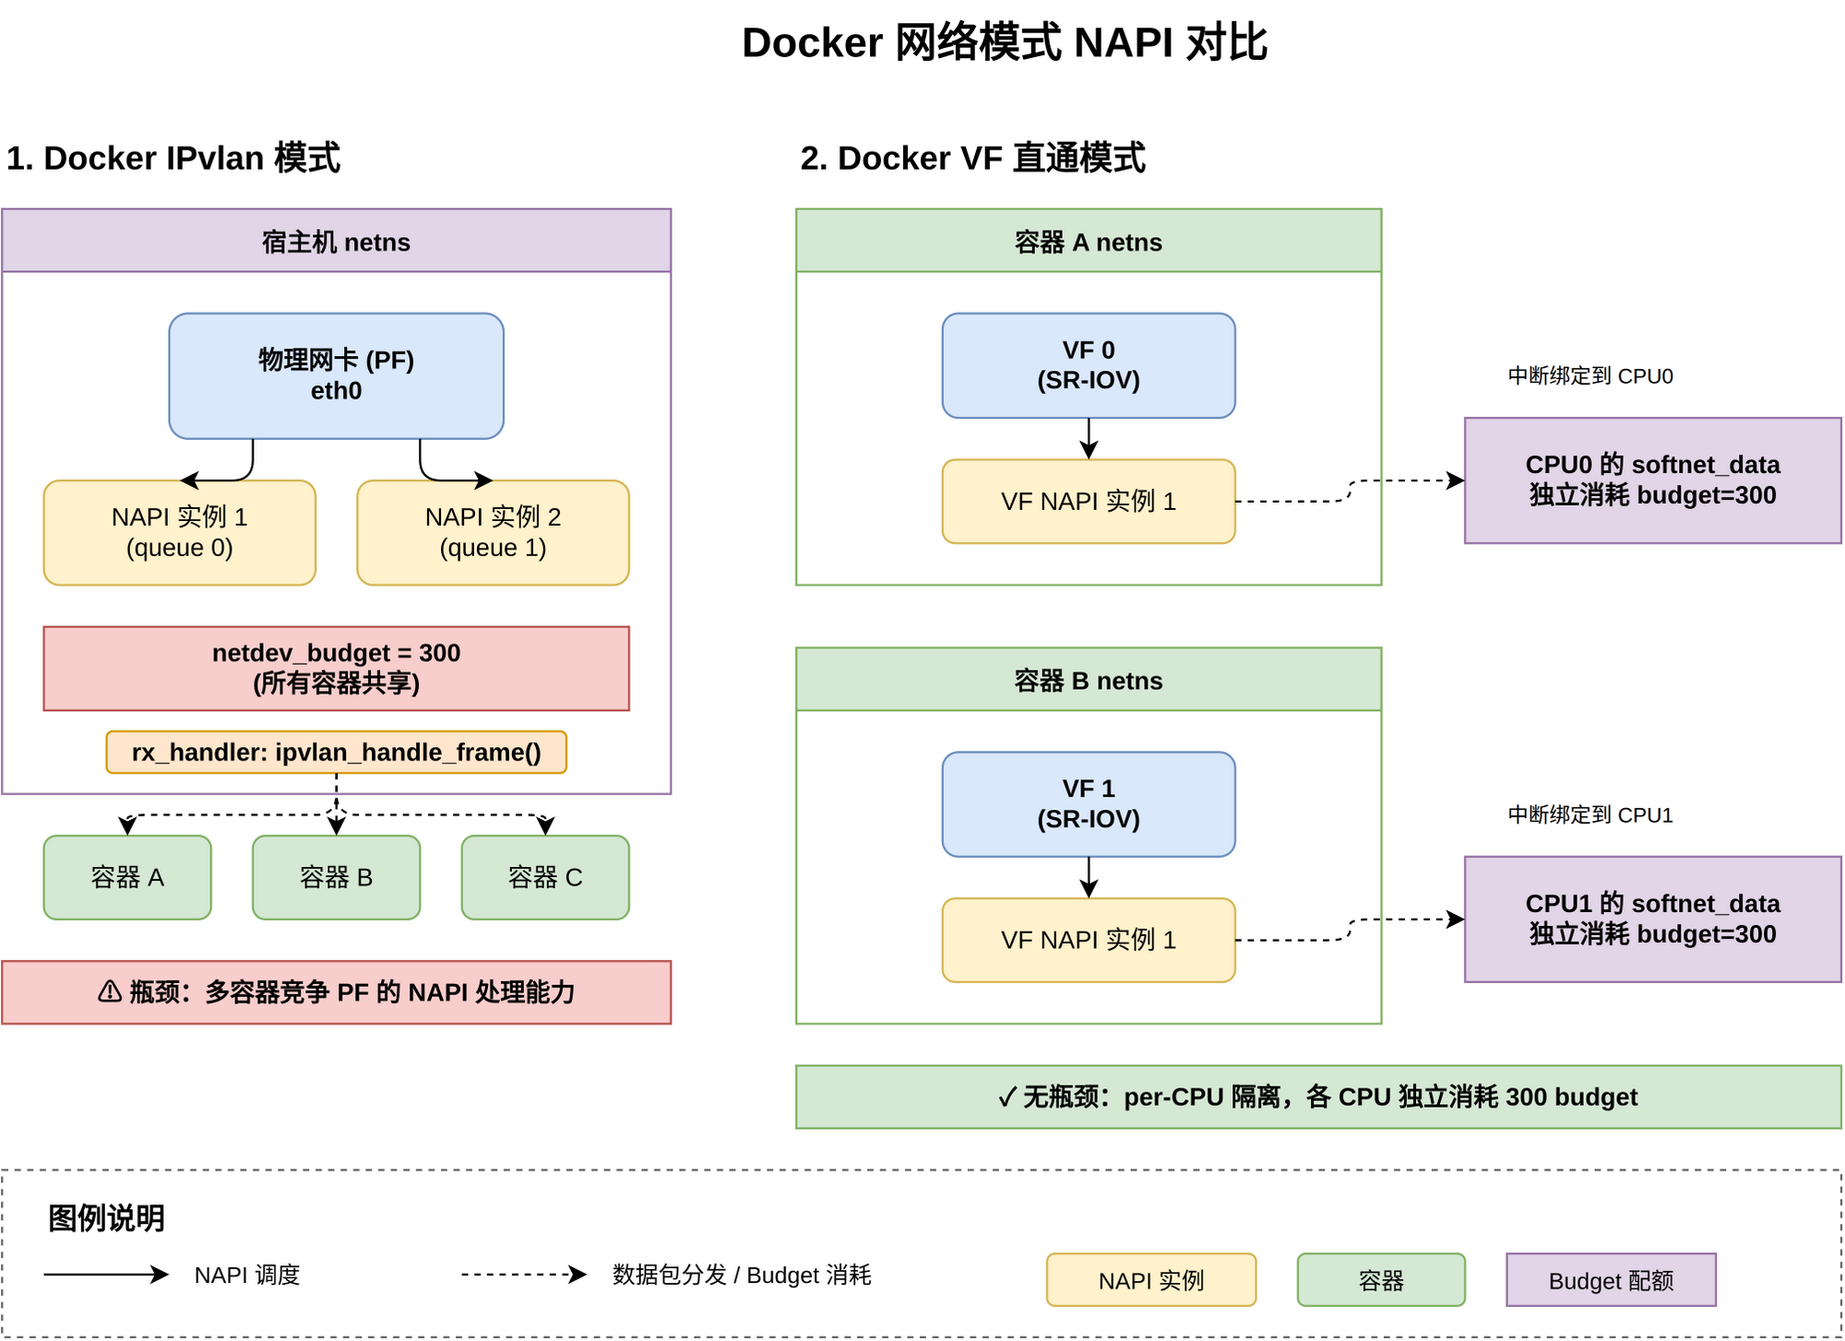
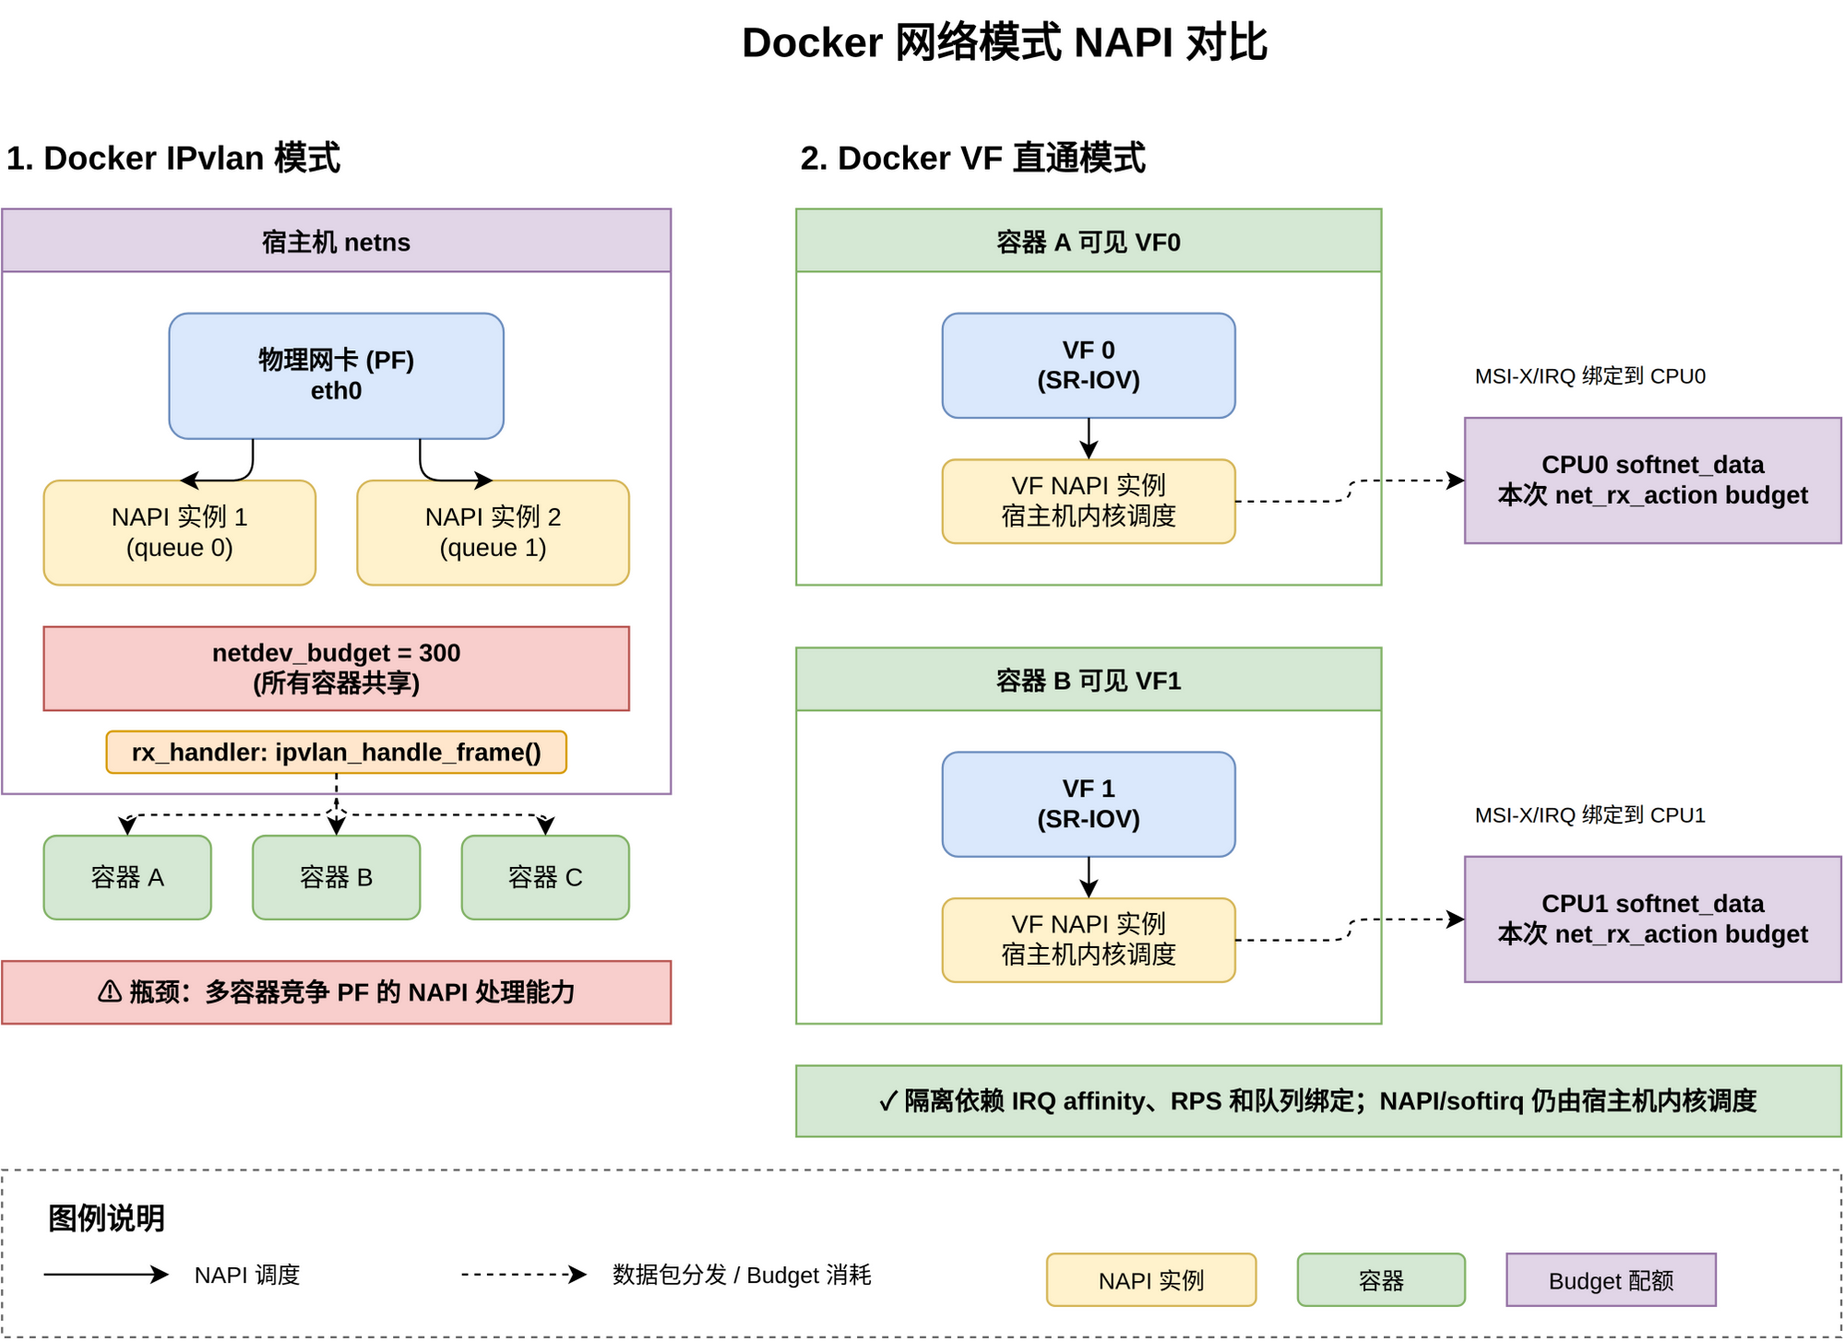
修正内核网络知识.md相关错误描述

diff --git a/内核网络知识.md b/内核网络知识.md
@@ -155,7 +155,7 @@ static int ixgbe_poll(struct napi_struct *napi, int budget)
 |------|-------------|---------|
 | **IPvlan** | 宿主机 netns 中的 PF 驱动 NAPI | 1. PF 驱动的 NAPI poll 处理所有容器的数据包<br>2. 在 `rx_handler` 中分发到各容器<br>3. 所有容器共享 PF 的硬件队列 |
 | **Host Network** | 宿主机 netns 中的 PF 驱动 NAPI | 与物理机完全一致 |
-| **VF 直通** | 容器 netns 中的 VF 驱动 NAPI | 1. 每个容器有独立的 VF NAPI 实例<br>2. VF 有独立的硬件队列和中断<br>3. **无中断共享开销** |
+| **VF 直通** | VF 驱动对应的独立 NAPI | 1. 每个 VF 有独立的 NAPI 实例<br>2. VF 有独立的硬件队列和中断<br>3. 可通过 IRQ affinity、RPS 和队列绑定降低共享竞争 |
 
 **架构对比图**：
 
@@ -170,12 +170,11 @@ static int ixgbe_poll(struct napi_struct *napi, int budget)
 **源码证明**（`drivers/net/ipvlan/ipvlan_main.c`）：
 
 ```c
-// IPvlan 设备创建时只注册 rx_handler，不创建 NAPI 实例
-int ipvlan_link_new(struct net *src_net, struct net_device *dev, ...)
+// IPvlan 在 port 创建阶段注册 rx_handler，不创建 NAPI 实例
+static int ipvlan_port_create(struct net_device *dev)
 {
     // ...
-    // 注册 rx_handler 拦截父设备的数据包，但不调用 netif_napi_add()
-    err = netdev_rx_handler_register(phy_dev, ipvlan_handle_frame, port);
+    err = netdev_rx_handler_register(dev, ipvlan_handle_frame, port);
     // ...
 }
 ```
@@ -230,7 +229,7 @@ static void net_rx_action(struct softirq_action *h)
    - 单个 NAPI 实例的 `weight` 默认为 `NAPI_POLL_WEIGHT = 64`
    - 全局 `netdev_budget = 300` 在所有 NAPI 实例间分配
    - **IPvlan 容器越多，单个容器分到的 CPU 时间片越少**（间接竞争）
-3. **数据包分发时机**：在 NAPI poll 完成后，通过 `rx_handler` 在软中断上下文中分发到各容器
+3. **数据包分发时机**：驱动 poll 将 skb 交给协议栈后，`__netif_receive_skb_core()` 在同一软中断路径中调用 `rx_handler`，再分发到各容器
 
 #### 1.7.2 Docker Host Network 模式
 
@@ -283,13 +282,13 @@ int ixgbe_poll(struct napi_struct *napi, int budget)
 
 **关键特征**：
 
-1. **独占 NAPI 实例**：容器独占物理网卡的所有 NAPI 实例
-2. **独占 NAPI Budget**：无需与其他容器竞争 `netdev_budget`
+1. **复用宿主机 NAPI 实例**：Host Network 容器直接使用宿主机网络命名空间，与宿主机进程共享 PF 的 NAPI 实例
+2. **共享 NAPI Budget**：仍与宿主机及其他 Host Network 容器处在相同 per-CPU 软中断路径中
 3. **无额外开销**：没有 `rx_handler` 拦截、没有 netns 切换
 
 #### 1.7.3 Docker VF 直通模式
 
-**NAPI 实例归属**：每个 VF 有**独立的 NAPI 实例**，在容器 netns 中运行。
+**NAPI 实例归属**：每个 VF 有**独立的 NAPI 实例**；Docker 场景通常是将 VF netdev 移入容器 netns，但 IRQ/NAPI 调度仍由宿主机内核完成。
 
 **源码证明**（`drivers/net/ethernet/intel/ixgbevf/ixgbevf_main.c`）：
 
@@ -315,17 +314,17 @@ static int ixgbevf_alloc_q_vector(struct ixgbevf_adapter *adapter, int v_idx, ..
 **NAPI 处理流程**：
 
 ```
-容器 netns 内：
+Docker VF 直通场景（VF netdev 已移入容器 netns）：
 
-1. VF 硬件中断（通过 VFIO/MSI-X 直接路由到容器）
-   └─> VF 驱动的 napi_schedule(&q_vector->napi)  // VF 独立的 NAPI 实例
+1. VF 硬件中断通过 MSI-X 路由到绑定 CPU
+   └─> 宿主机内核中的 VF 驱动调用 napi_schedule(&q_vector->napi)
    
-2. 软中断上下文：net_rx_action()（在容器的 CPU 上执行）
-   └─> 遍历容器 CPU 的 poll_list，找到 VF 的 napi_struct
+2. 软中断上下文：net_rx_action()（在该 CPU 上执行）
+   └─> 遍历该 CPU 的 poll_list，找到 VF 的 napi_struct
    └─> 调用 VF 的 poll() 函数：ixgbevf_poll()
        └─> 从 VF 的硬件队列读取数据包
        └─> netif_receive_skb()
-           └─> **直接在容器 netns 中完成协议栈处理**
+           └─> 在 VF netdev 所在 netns 中继续协议栈处理
            └─> 无 rx_handler，无 netns 切换
 ```
 
@@ -363,11 +362,11 @@ static int ixgbevf_poll(struct napi_struct *napi, int budget)
 **关键特征**：
 
 1. **独立 NAPI 实例**：
-   - 每个 VF 有自己的 `napi_struct`，通过 `netif_napi_add()` 注册到容器 netns
+   - 每个 VF 有自己的 `napi_struct`，通过 `netif_napi_add()` 关联到 VF net_device
    - `napi->weight` 默认为 `NAPI_POLL_WEIGHT = 64`（与 PF 相同）
    
-2. **独立 NAPI Budget（通过 per-CPU 隔离）**：
-   - **关键机制**：VF 的 NAPI 实例注册到容器 netns，中断被绑定到容器的专属 CPU
+2. **NAPI Budget 隔离基础（依赖 per-CPU 绑定）**：
+   - **关键机制**：VF 有独立 NAPI 和 MSI-X 中断，隔离效果取决于 IRQ affinity、RPS 和队列绑定
    - **软中断隔离**：每个 CPU 有独立的 `softnet_data`（per-CPU 结构），包含独立的 `poll_list`
    - **Budget 独立性**：虽然 `netdev_budget=300` 是全局变量，但每个 CPU 的软中断独立消耗 budget
    - **源码证明**（`net/core/dev.c`）：
@@ -380,7 +379,7 @@ static int ixgbevf_poll(struct napi_struct *napi, int budget)
          struct softnet_data *sd = this_cpu_ptr(&softnet_data);  // ★ 获取当前 CPU 的 softnet_data
          int budget = READ_ONCE(netdev_budget);  // 读取全局 budget (300)
          
-         // 遍历当前 CPU 的 poll_list（只包含绑定到此 CPU 的 NAPI 实例）
+         // 遍历当前 CPU 的 poll_list（包含在此 CPU 上被调度的 NAPI 实例）
          for (;;) {
              struct napi_struct *n = list_first_entry(&sd->poll_list, ...);
              budget -= napi_poll(n, &repoll);
@@ -388,21 +387,21 @@ static int ixgbevf_poll(struct napi_struct *napi, int budget)
          }
      }
      ```
-   - **实际效果**：容器 A 的 VF 中断绑定到 CPU0，容器 B 的 VF 中断绑定到 CPU1，它们各自消耗独立的 300 budget
+   - **实际效果**：如果容器 A 的 VF 中断绑定到 CPU0、容器 B 的 VF 中断绑定到 CPU1，它们会在不同 CPU 上分别消耗本次软中断 budget
    
 3. **独立硬件队列**：
    - VF 有独立的 RX/TX 描述符环（Ring Buffer）
-   - VF 产生独立的 MSI-X 中断，通过 IRQ 亲和性绑定到容器的专属 CPU
+   - VF 产生独立的 MSI-X 中断，可通过 IRQ 亲和性绑定到目标 CPU
 
 #### 1.7.4 三种模式的 NAPI Budget 对比
 
 | 维度 | Docker IPvlan | Docker Host Network | Docker VF 直通 |
 |------|--------------|-------------------|--------------|
 | **NAPI 实例数量** | 0（复用父设备 PF 的 NAPI） | N（PF 的所有 NAPI 实例） | M（VF 的独立 NAPI 实例，M 通常 < N） |
-| **NAPI 实例位置** | 宿主机 netns（父设备） | 宿主机 netns（容器共享） | 容器 netns（隔离） |
+| **NAPI 实例位置** | 宿主机 netns（父设备） | 宿主机 netns（容器共享） | VF netdev 可移入容器 netns；NAPI 仍由宿主机内核调度 |
 | **单个 NAPI weight** | 继承父设备（通常 64） | PF 默认 64 | VF 默认 64 |
-| **softnet_data** | 共享宿主机 CPU 的 softnet_data | 独占宿主机 CPU 的 softnet_data | **每个容器的 VF 中断绑定到独立 CPU**，各 CPU 的 softnet_data 隔离 |
-| **netdev_budget 隔离** | **间接竞争**（父设备 NAPI 被多个容器占用） | 无竞争 | **通过 per-CPU 隔离**（VF 中断绑定到不同 CPU，各 CPU 独立消耗 300 budget） |
+| **softnet_data** | 共享宿主机 CPU 的 softnet_data | 共享宿主机 CPU 的 softnet_data | 取决于 VF 中断是否分散绑定到不同 CPU |
+| **netdev_budget 隔离** | **间接竞争**（父设备 NAPI 被多个容器占用） | 与宿主机网络流量共享 | **条件性 per-CPU 隔离**（依赖 IRQ affinity、RPS 和队列绑定） |
 | **是否可调整** | ✓（调整宿主机 `sysctl net.core.netdev_budget`） | ✓ | ✓（调整全局 `netdev_budget`，但各 CPU 独立消耗） |
 
 **关键概念说明**：
@@ -423,10 +422,10 @@ static int ixgbevf_poll(struct napi_struct *napi, int budget)
    ```
 
 3. **VF 直通模式的 Budget 隔离机制**：
-   - VF 的 MSI-X 中断通过 IRQ 亲和性绑定到容器的专属 CPU（如 CPU0）
+   - VF 的 MSI-X 中断可通过 IRQ 亲和性绑定到目标 CPU（如 CPU0）
    - 软中断 `net_rx_action()` 在该 CPU 上执行，访问 `this_cpu_ptr(&softnet_data)`
-   - 该 CPU 的 `poll_list` 只包含该容器 VF 的 NAPI 实例
-   - 该 CPU 独立消耗 `netdev_budget=300`，与其他 CPU 无竞争
+   - 该 CPU 的 `poll_list` 包含在该 CPU 上被调度的 NAPI 实例
+   - 如果不同 VF 被绑定到不同 CPU，它们会分别消耗各自 CPU 上本次 `net_rx_action()` 的 budget
 
 **关键代码证明**（`net/core/dev.c:6697`）：
 
@@ -519,12 +518,12 @@ static void net_rx_action(struct softirq_action *h)
     VF0 NAPI 实例 1                         VF1 NAPI 实例 1
     VF0 NAPI 实例 2                         VF1 NAPI 实例 2
 
-✅ 优势：每个 CPU 独立消耗 netdev_budget=300，容器之间完全隔离
+✅ 优势：如果 VF 中断与队列被分散绑定到不同 CPU，各 CPU 会分别消耗本次 net_rx_action() 的 budget
 ```
 
 在这个过程中：
 - **IPvlan 模式**：如果 3 个 NAPI 实例处理的数据包分别属于容器 A、B、C，则它们在同一个 CPU 的 softnet_data 中共享 300 budget
-- **VF 直通模式**：每个容器的 VF 中断绑定到不同 CPU，各 CPU 有独立的 softnet_data 和独立的 300 budget 消耗，无竞争
+- **VF 直通模式**：如果各 VF 中断绑定到不同 CPU，各 CPU 有独立的 softnet_data 和本次软中断 budget；若 IRQ/RPS/队列绑定重叠，仍可能竞争
 
 ### 1.8 NAPI 相关内核参数
 
@@ -578,9 +577,10 @@ static void net_rx_action(struct softirq_action *h)
 **方法 1：驱动层修改（需重新编译内核模块）**
 
 ```c
-// 例如修改 ixgbe 驱动源码
+// Linux 6.6 的 ixgbe 当前使用 netif_napi_add()，默认 weight 为 NAPI_POLL_WEIGHT=64
+// 如果确实要为该驱动自定义 weight，可将对应调用改为 netif_napi_add_weight()
 netif_napi_add_weight(adapter->netdev, &q_vector->napi, 
-                      ixgbe_poll, 128);  // 改为 128，默认是 64
+                      ixgbe_poll, 128);  // 改为 128
 ```
 
 **方法 2：修改内核默认值（需重新编译内核）**
@@ -638,44 +638,44 @@ netif_napi_add_weight(adapter->netdev, &q_vector->napi,
 2⃣ Docker Host Network 模式
    宿主机 netns (容器共享)
    ├── 物理网卡 (PF)
-   │   ├── NAPI 实例 1 (queue 0, weight=64)  ←─ 容器独占
-   │   ├── NAPI 实例 2 (queue 1, weight=64)  ←─ 容器独占
-   │   └── NAPI 实例 N (queue N-1, weight=64) ←─ 容器独占
+   │   ├── NAPI 实例 1 (queue 0, weight=64)  ←─ 与宿主机共享
+   │   ├── NAPI 实例 2 (queue 1, weight=64)  ←─ 与宿主机共享
+   │   └── NAPI 实例 N (queue N-1, weight=64) ←─ 与宿主机共享
    │
-   └── 全局 netdev_budget = 300  ←─ 容器独占
+   └── 全局 netdev_budget = 300  ←─ 与宿主机和其他 Host Network 容器共享
        └── 直接进入协议栈，无 rx_handler
 
-   ✅ 无瓶颈：与物理机性能一致
+   ✅ 优势：无虚拟设备路径开销；但仍共享宿主机 PF 的 NAPI 资源
 
 
 3⃣ Docker VF 直通模式
    
-   容器 A netns (VF0 中断绑定到 CPU0)
+   容器 A netns 可见 VF0 (VF0 中断绑定到 CPU0)
    ├── VF 0 (SR-IOV Virtual Function)
-   │   ├── NAPI 实例 1 (VF queue 0, weight=64)  ←─ 注册到 CPU0 的 softnet_data.poll_list
-   │   └── NAPI 实例 2 (VF queue 1, weight=64)  ←─ 注册到 CPU0 的 softnet_data.poll_list
+   │   ├── NAPI 实例 1 (VF queue 0, weight=64)  ←─ 可在 CPU0 的 softnet_data.poll_list 调度
+   │   └── NAPI 实例 2 (VF queue 1, weight=64)  ←─ 可在 CPU0 的 softnet_data.poll_list 调度
    │
    └── CPU0 的 softnet_data 独立消耗 netdev_budget=300
 
-   容器 B netns (VF1 中断绑定到 CPU1)
+   容器 B netns 可见 VF1 (VF1 中断绑定到 CPU1)
    ├── VF 1 (SR-IOV Virtual Function)
-   │   ├── NAPI 实例 1 (VF queue 0, weight=64)  ←─ 注册到 CPU1 的 softnet_data.poll_list
-   │   └── NAPI 实例 2 (VF queue 1, weight=64)  ←─ 注册到 CPU1 的 softnet_data.poll_list
+   │   ├── NAPI 实例 1 (VF queue 0, weight=64)  ←─ 可在 CPU1 的 softnet_data.poll_list 调度
+   │   └── NAPI 实例 2 (VF queue 1, weight=64)  ←─ 可在 CPU1 的 softnet_data.poll_list 调度
    │
    └── CPU1 的 softnet_data 独立消耗 netdev_budget=300
 
-   ✅ 无瓶颈：
+   ✅ 隔离条件：
       - netdev_budget=300 是全局变量，但通过 per-CPU 的 softnet_data 实现隔离
       - VF0 的中断 → CPU0 → CPU0 的 softnet_data.poll_list → CPU0 独立消耗 300 budget
       - VF1 的中断 → CPU1 → CPU1 的 softnet_data.poll_list → CPU1 独立消耗 300 budget
-      - 容器之间通过 CPU 亲和性实现完全隔离
+      - 隔离效果依赖 IRQ affinity、RPS 和队列绑定，不能无条件视为完全隔离
 ```
 
 1. **NAPI 是 Linux 高性能网络的基石**，通过中断 + 轮询混合模式平衡延迟和吞吐量
 
-2. **VF 直通模式**中，每个容器有独立的 NAPI 实例和 budget，完全隔离，无竞争
+2. **VF 直通模式**中，每个 VF 有独立的 NAPI 实例；budget 隔离效果依赖 IRQ affinity、RPS 和队列绑定
 3. **IPvlan 模式**中，所有容器共享 PF 的 NAPI 实例和全局 budget，高并发时存在间接竞争
-4. **Host Network 模式**中，容器独占物理网卡的所有 NAPI 资源，性能与物理机一致
+4. **Host Network 模式**中，容器复用宿主机物理网卡 NAPI 路径，无虚拟设备路径开销，但不独占 NAPI 资源
 5. **NAPI weight** 决定单次 poll 处理的最大数据包数（默认 64），**netdev_budget** 决定单次软中断处理的总数据包数（默认 300）
 
 ---
@@ -810,7 +810,7 @@ struct sk_buff {
 |------|---------------------|-------------|
 | **IPvlan** | 1. PF 驱动分配 skb<br>2. `rx_handler` 拦截，调用 `skb_clone()` 或修改 `skb->dev`<br>3. `dev_forward_skb()` 调整 skb metadata（指向 IPvlan 虚拟设备）<br>4. 进入容器 netns，继续 L3/L4 处理 | ✗ 不拷贝数据（只克隆结构体或调整 metadata） |
 | **Host Network** | 1. PF 驱动分配 skb<br>2. 直接在宿主机 netns 中完成 L2→L4 处理<br>3. 挂到 socket 接收队列 | ✗ 不拷贝数据 |
-| **VF 直通** | 1. VF 驱动分配 skb（DMA 通过 IOMMU）<br>2. 直接在容器 netns 中完成 L2→L4 处理<br>3. 挂到 socket 接收队列 | ✗ 不拷贝数据 |
+| **VF 直通** | 1. VF 驱动分配 skb（DMA 通过 IOMMU）<br>2. skb 进入 VF netdev 所在 netns 的协议栈；IRQ/NAPI 仍由宿主机内核调度<br>3. 挂到 socket 接收队列 | ✗ 不拷贝数据 |
 
 ### 2.7 关键结论
 
@@ -921,14 +921,14 @@ Qdisc 层（流量控制）
 
 ### 4.1 rx_handler（IPvlan 的核心机制）
 
-**注册 rx_handler**（`net/l2/ipvlan/ipvlan_main.c`）：
+**注册 rx_handler**（`drivers/net/ipvlan/ipvlan_main.c`）：
 
 ```c
-int ipvlan_link_new(struct net *src_net, struct net_device *dev, ...)
+static int ipvlan_port_create(struct net_device *dev)
 {
     // ...
     // 注册 rx_handler，拦截父设备（PF）的所有数据包
-    err = netdev_rx_handler_register(phy_dev, ipvlan_handle_frame, port);
+    err = netdev_rx_handler_register(dev, ipvlan_handle_frame, port);
     // ...
 }
 ```
@@ -936,7 +936,7 @@ int ipvlan_link_new(struct net *src_net, struct net_device *dev, ...)
 **rx_handler 执行时机**：
 
 ```c
-// net/core/dev.c:5487
+// net/core/dev.c:5585
 static int __netif_receive_skb_core(struct sk_buff **pskb, ...)
 {
     // ...
@@ -962,18 +962,19 @@ static int __netif_receive_skb_core(struct sk_buff **pskb, ...)
 
 ### 4.2 netns（Network Namespace）切换
 
-**IPvlan 的 netns 切换**（`net/l2/ipvlan/ipvlan_core.c`）：
+**IPvlan 的 netns 切换**（`drivers/net/ipvlan/ipvlan_core.c`）：
 
 ```c
 void ipvlan_skb_crossing_ns(struct sk_buff *skb, struct net_device *dev)
 {
-    bool xnet = !net_eq(dev_net(skb->dev), dev_net(dev));
+    bool xnet = true;
     
-    if (xnet) {
-        // 切换 skb 的 netns
-        skb_scrub_packet(skb, xnet);  // 清理旧 netns 的 metadata
-        skb->dev = dev;               // 修改为目标容器的虚拟设备
-    }
+    if (dev)
+        xnet = !net_eq(dev_net(skb->dev), dev_net(dev));
+
+    skb_scrub_packet(skb, xnet);  // 清理旧 netns 的 metadata
+    if (dev)
+        skb->dev = dev;           // 修改为目标容器的虚拟设备
 }
 ```
 
@@ -1044,7 +1045,7 @@ static void ixgbe_configure_rx(struct ixgbe_adapter *adapter)
 | **NAPI 核心** | `net/core/dev.c` | `net_rx_action()`, `__napi_poll()`, `netdev_budget` |
 | **NAPI 结构定义** | `include/linux/netdevice.h` | `struct napi_struct`, `NAPI_POLL_WEIGHT=64` |
 | **skb 定义** | `include/linux/skbuff.h` | `struct sk_buff` |
-| **rx_handler** | `net/core/dev.c:__netif_receive_skb_core()` | `rx_handler` 调用点 |
+| **rx_handler** | `net/core/dev.c:5585` | `__netif_receive_skb_core()` 中的 `rx_handler` 调用点 |
 | **IPvlan 驱动** | `drivers/net/ipvlan/` | `ipvlan_handle_frame()` (无 NAPI 实例) |
 | **IPvlan 主逻辑** | `drivers/net/ipvlan/ipvlan_main.c:136` | `netdev_rx_handler_register()` |
 | **IPvlan 核心** | `drivers/net/ipvlan/ipvlan_core.c` | `ipvlan_handle_frame()` 实现 |
@@ -1133,7 +1134,7 @@ watch -n 1 'cat /proc/softirqs | grep NET'
    netdev_rx_handler_register(dev, ipvlan_handle_frame, port);
    ```
 
-2. **rx_handler 调用点**：`net/core/dev.c:__netif_receive_skb_core()`
+2. **rx_handler 调用点**：`net/core/dev.c:5585`（`__netif_receive_skb_core()`）
    - 在协议栈处理前拦截数据包
    - IPvlan 通过此机制实现数据包分发
 
@@ -1179,7 +1180,7 @@ echo 1 > /proc/irq/<VF_IRQ_NUM>/smp_affinity_list  # 绑定到 CPU0
    struct softnet_data *sd = this_cpu_ptr(&softnet_data);  // CPU0 的 softnet_data
    int budget = READ_ONCE(netdev_budget);                    // 读取全局 300
    // 只处理 CPU0 的 poll_list（只包含 VF 的 NAPI 实例）
-6. CPU0 独立消耗 300 budget，与 CPU1 的 VF 完全隔离
+6. CPU0 与 CPU1 分别消耗各自本次软中断的 budget；隔离效果取决于 IRQ affinity、RPS 和队列绑定
 ```
 
 **关键源码位置**：
